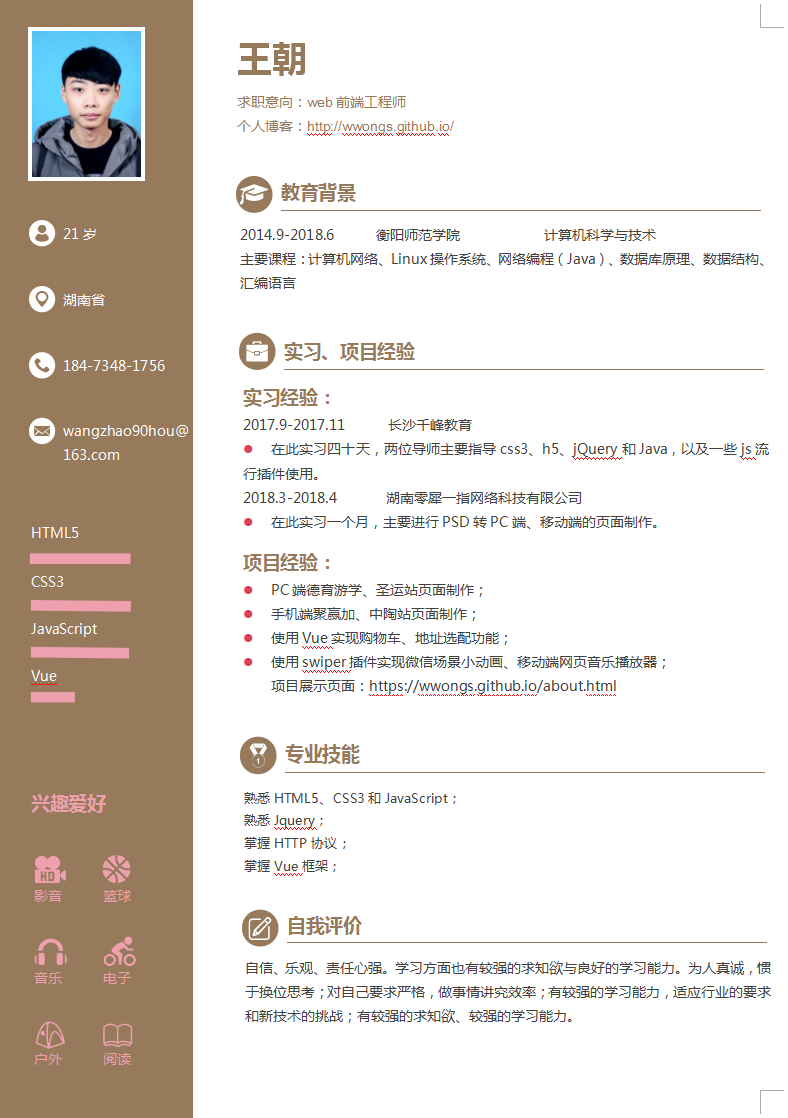
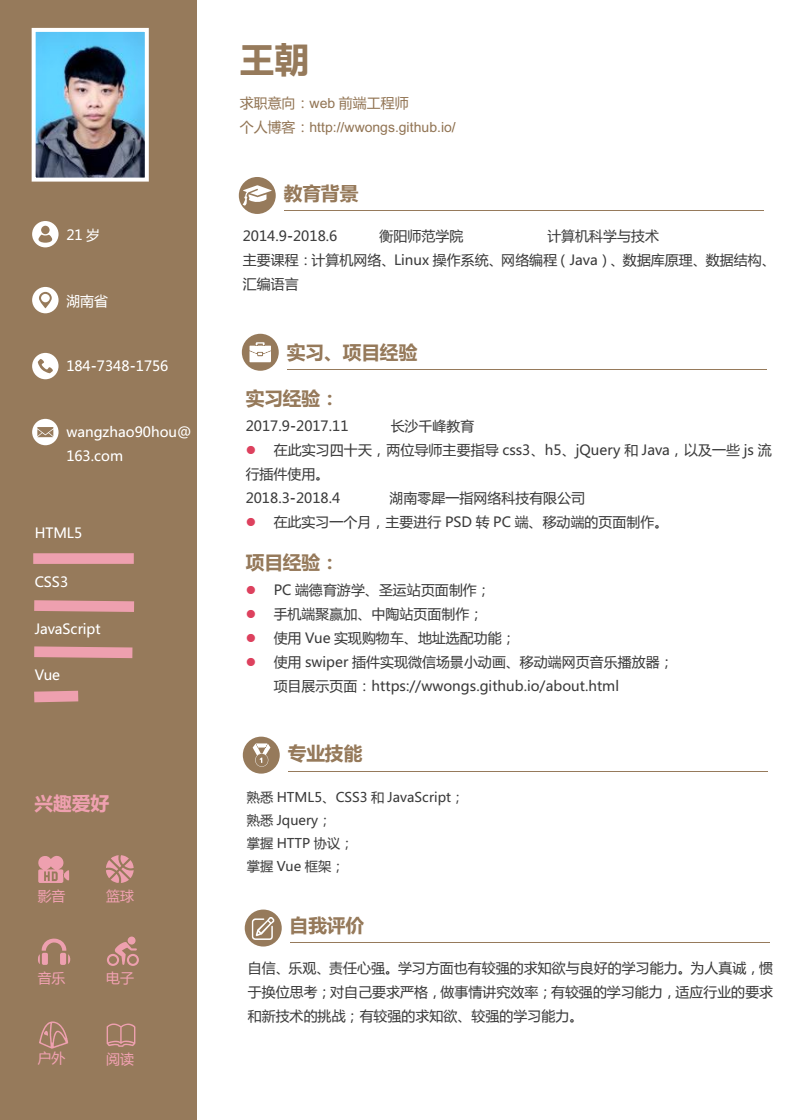
update readmer.html

diff --git a/tool/readme.html b/tool/readme.html
@@ -12,7 +12,7 @@
     .readme{
       margin: 0 auto;
       text-align: center;
-	  width: 788px;
+	  width: 791px;
 	  height: 1118px;
 	  box-shadow: 1px 1px 2px #666;
     }
